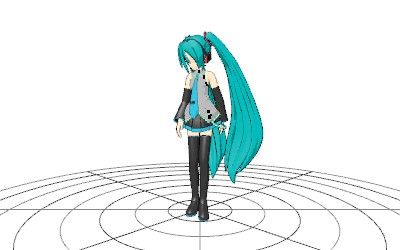
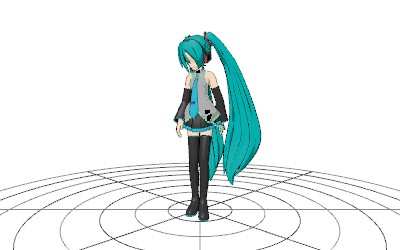
Set all Examples lights to intensity 1 after shading correction (#98)

Changed region(s): [[0.42, 0.168, 0.66, 0.756], [0.45, 0.224, 0.51, 0.308], [0.48, 0.784, 0.51, 0.812]]

diff --git a/tests/example-thumbnails.test.ts b/tests/example-thumbnails.test.ts
@@ -8,10 +8,10 @@ import { geneLightManifest } from '../scripts/gene-light-assets.ts';
 const ids = [ 'webgl_loader_mmd', 'webgl_loader_mmd_audio', 'webgl_loader_mmd_pose', 'webgl_loader_mmd_worker', 'webgl_loader_mmd_pmx_gene' ];
 const sha256 = ( bytes: Uint8Array ) => createHash( 'sha256' ).update( bytes ).digest( 'hex' );
 const previousImages: Record<string, string> = {
[9 lines of base64/hex data omitted]
 };
 
@@ -66,7 +66,7 @@ function jpegDimensions( bytes: Buffer ) {
 
 }
 
-test( 'four brighter Miku previews and unchanged Gene preview have valid dimensions, hashes and per-mode provenance', async () => {
+test( 'four 1/1 Miku previews and unchanged Gene preview have valid dimensions, hashes and per-mode provenance', async () => {
 
 	const gallery = await readFile( new URL( '../examples/index.html', import.meta.url ), 'utf8' );
 	const scene = await readFile( new URL( '../examples/scene.ts', import.meta.url ) );
@@ -85,13 +85,13 @@ test( 'four brighter Miku previews and unchanged Gene preview have valid dimensi
 
 		const gene = entry.page.endsWith( '_pmx_gene' );
 		assert.equal( entry.mode, gene ? 'gene' : entry.page.endsWith( '_audio' ) ? 'audio' : entry.page.endsWith( '_pose' ) ? 'pose' : 'animation' );
-		assert.deepEqual( entry.lighting, gene ? { ambient: 1, directional: 1 } : { ambient: 2, directional: 3 } );
+		assert.deepEqual( entry.lighting, { ambient: 1, directional: 1 } );
 		assert.equal( entry.retained, gene );
 		assert.ok( ! Number.isNaN( Date.parse( entry.capturedAt ) ) );
 		assert.match( entry.userAgent, /HeadlessChrome/ );
 		if ( gene ) {
 
-			assert.equal( entry.sha256, previousImages[ entry.page ], 'Issue #66 must preserve the exact Gene JPEG' );
+			assert.equal( entry.sha256, previousImages[ entry.page ], 'Preserve the original 1/1 Gene JPEG' );
[1 lines of base64/hex data omitted]
 			assert.equal( entry.capturedAt, '2026-10-14T09:29:07.294Z' );
 			assert.equal( entry.checks.defaultLights, true, 'Original Gene capture used native defaults' );
@@ -100,7 +100,7 @@ test( 'four brighter Miku previews and unchanged Gene preview have valid dimensi
 
 			assert.equal( entry.sceneSha256, manifest.sceneSha256 );
 			assert.equal( entry.capturedAt, manifest.capturedAt );
-			assert.equal( entry.previousSha256, previousImages[ entry.page ], 'Record the replaced 1/1 image' );
+			assert.equal( entry.previousSha256, previousImages[ entry.page ], 'Record the replaced Issue #66 2/3 image' );
 			assert.notEqual( entry.sha256, entry.previousSha256, 'Must refresh each Miku capture' );
 
 		}
@@ -121,8 +121,8 @@ test( 'four brighter Miku previews and unchanged Gene preview have valid dimensi
 
 	}
 	assert.equal( new Set( manifest.entries.map( ( entry: { sha256: string } ) => entry.sha256 ) ).size, ids.length, 'Worker must have its own distinct capture' );
-	// Browser checks exercise all modes; ensure Gene still uses native defaults.
-	assert.match( scene.toString(), /new AmbientLight\( 0xffffff, mode === 'gene' \? undefined : 2 \)/ );
-	assert.match( scene.toString(), /new DirectionalLight\( 0xffffff, mode === 'gene' \? undefined : 3 \)/ );
+	// Browser checks exercise all modes; require explicit shared 1/1 lighting.
+	assert.match( scene.toString(), /new AmbientLight\( 0xffffff, 1 \)/ );
+	assert.match( scene.toString(), /new DirectionalLight\( 0xffffff, 1 \)/ );
 
 } );

diff --git a/scripts/capture-example-thumbnails.ts b/scripts/capture-example-thumbnails.ts
@@ -10,7 +10,7 @@ import { createExamplesServer } from './serve-examples.ts';
 import { removeBrowserDirectory, runBrowser } from '../tests/browser/browser.ts';
 
 const ids = [ 'webgl_loader_mmd', 'webgl_loader_mmd_audio', 'webgl_loader_mmd_pose', 'webgl_loader_mmd_worker', 'webgl_loader_mmd_pmx_gene' ];
-// Issue #66 preserves the Issue #63 Gene preview byte for byte, on every run.
+// Gene already used 1/1 lighting; retain its Issue #63 preview provenance.
[1 lines of base64/hex data omitted]
 const sha256 = ( bytes: Uint8Array ) => createHash( 'sha256' ).update( bytes ).digest( 'hex' );
 interface Capture {
@@ -33,8 +33,8 @@ for ( const file of geneLightManifest.files ) verifyGeneLightFile( file, await r
 // Reject a stale build before capturing any images.
 const sceneSource = await readFile( new URL( '../examples/scene.ts', import.meta.url ) );
 const compiledScene = await readFile( new URL( '../dist/example-modules/scene.js', import.meta.url ), 'utf8' );
-assert.ok( /const ambient = new AmbientLight\(\s*0xffffff, mode === ['"]gene['"] \? undefined : 2\s*\)/.test( compiledScene ), 'Build the current per-mode ambient lighting before capture' );
-assert.ok( /const light = new DirectionalLight\(\s*0xffffff, mode === ['"]gene['"] \? undefined : 3\s*\)/.test( compiledScene ), 'Build the current per-mode directional lighting before capture' );
+assert.ok( /const ambient = new AmbientLight\(\s*0xffffff, 1\s*\)/.test( compiledScene ), 'Build the current 1/1 ambient lighting before capture' );
+assert.ok( /const light = new DirectionalLight\(\s*0xffffff, 1\s*\)/.test( compiledScene ), 'Build the current 1/1 directional lighting before capture' );
 
 const harness = `<!doctype html><meta charset="utf-8"><pre id="result">pending</pre><script type="module">
 const captures = [], errors = [];
@@ -76,7 +76,7 @@ try {
   const checks={
    ready:doc.body.dataset.state==='ready',
    realModel:id.endsWith('_pmx_gene')?mesh.skeleton.bones.length===224:mesh.skeleton.bones.length>100,
-   lightIntensities:lights.length===2 && ambient.intensity===(mode==='gene'?1:2) && directional.intensity===(mode==='gene'?1:3),
+   lightIntensities:lights.length===2 && ambient.intensity===1 && directional.intensity===1,
    lightColors:ambient.color.getHex()===0xffffff && directional.color.getHex()===0xffffff,
    lightDirection:directional.position.toArray().join(',')==='-1,2,1' && directional.target.position.toArray().join(',')==='0,0,0',
    camera:id.endsWith('_audio') || (camera.position.toArray().every((v,i)=>Math.abs(v-[0,12,35][i])<1e-9) && camera.aspect===400/250),
@@ -143,13 +143,14 @@ try {
 		const previous = await readFile( target ).catch( () => null );
 		const bytes = Buffer.from( capture.preview.split( ',' )[ 1 ], 'base64' );
 		await writeFile( target, bytes );
-		// Retain the original replaced image hash across recaptures, which may
-		// legitimately encode exactly the same pixels on the same browser.
-		const original = existingManifest?.entries.find( ( entry: { page: string } ) => entry.page === capture.page );
-		const previousSha256 = existingManifest.version === 2 ? original.previousSha256 : previous ? sha256( previous ) : null;
+		// Record the replaced lighting configuration once; repeated captures at
+		// 1/1 may legitimately encode exactly the same pixels on the same browser.
+		const original = existingManifest.entries.find( ( entry: { page: string } ) => entry.page === capture.page );
+		const previousSha256 = original?.lighting?.ambient === 1 && original?.lighting?.directional === 1
+			? original.previousSha256 : previous ? sha256( previous ) : null;
 		entries.push( { page: capture.page, path, sha256: sha256( bytes ), previousSha256, ...capture.state,
 			capturedAt, sceneSha256: sha256( sceneSource ), userAgent: result.userAgent, retained: false, checks: capture.checks } );
-		console.log( `Captured ${capture.page} (real assets, ambient 2 / directional 3, ${bytes.length} bytes)` );
+		console.log( `Captured ${capture.page} (real assets, ambient 1 / directional 1, ${bytes.length} bytes)` );
 
 	}
 	await writeFile( manifestURL, JSON.stringify( {

diff --git a/examples/scene.ts b/examples/scene.ts
@@ -61,10 +61,9 @@ export async function initExample( mode: 'animation' | 'audio' | 'pose' | 'gene'
 		gui.domElement.setAttribute( 'aria-busy', 'true' );
 		const scene = new Scene();
 		scene.background = new Color( 0xffffff );
-		// Gene keeps native defaults; the Miku examples use brighter art direction.
-		const ambient = new AmbientLight( 0xffffff, mode === 'gene' ? undefined : 2 );
+		const ambient = new AmbientLight( 0xffffff, 1 );
 		scene.add( new PolarGridHelper( 30, 8 ), ambient );
-		const light = new DirectionalLight( 0xffffff, mode === 'gene' ? undefined : 3 );
+		const light = new DirectionalLight( 0xffffff, 1 );
 		light.position.set( - 1, 2, 1 );
 		scene.add( light );
 		const camera = new PerspectiveCamera( 45, innerWidth / innerHeight, 0.1, 2000 );

diff --git a/tests/browser/examples.test.ts b/tests/browser/examples.test.ts
@@ -302,7 +302,7 @@ try {
 		const lights = scene.children.filter( child => child.isLight );
 		const ambient = lights.find( child => child.isAmbientLight );
 		const directional = lights.find( child => child.isDirectionalLight );
-		checks.lightIntensities = lights.length === 2 && ambient.intensity === 2 && directional.intensity === 3;
+		checks.lightIntensities = lights.length === 2 && ambient.intensity === 1 && directional.intensity === 1;
 		checks.lightColors = ambient.color.getHex() === 0xffffff && directional.color.getHex() === 0xffffff;
 		checks.lightDirection = directional.position.toArray().join( ',' ) === '-1,2,1' && directional.target.position.toArray().join( ',' ) === '0,0,0';
 		let guiRect = gui.getBoundingClientRect();

diff --git a/examples/README.md b/examples/README.md
@@ -33,8 +33,8 @@ light/dark colors from the Issue #14 references: Three.js `examples/index.html`
 (blob `eab4263a7a7570bb433cab3048d5735d4782f673`). It is separate from the demo
 stylesheets. The four Miku previews in `screenshots/` replace the original
 official r171 screenshots with local captures of this checkout's real
-model/animation, audio/camera, pose, and Worker scenes with ambient intensity 2
-and directional intensity 3, restored for Issue #66.
+model/animation, audio/camera, pose, and Worker scenes with ambient intensity 1
+and directional intensity 1, updated for Issue #98.
 Their model, texture, motion, camera, and pose sources are pinned to the same
 Three.js commit as the assets below. They depict the credited Miku character
 and retain the applicable character/asset terms; they are not MIT licensed
@@ -151,23 +151,24 @@ audio playback also needs browser audio support.
 ### Gallery thumbnail capture
 
 All five gallery cards use local **400×250 JPEG** captures from their real
-example pages with white `AmbientLight` and `DirectionalLight`. Issue #66
-restores the brighter lighting for the four Miku examples and recaptures their
-previews, including a distinct Worker image. Gene retains native Three.js
-defaults and its exact Issue #63 JPEG bytes.
+example pages with white `AmbientLight` and `DirectionalLight`, both explicitly
+set to intensity **1** in every mode. Issue #98 recaptures the four Miku
+previews, including a distinct Worker image, after the corrected MMD direct
+diffuse lighting in #96/#97. Gene already used 1/1 lighting and retains its
+exact Issue #63 JPEG bytes and historical capture provenance.
 
 | Page / mode | Ambient intensity | Directional intensity | Preview |
 | --- | --- | --- | --- |
-| Model and animation / `animation` | 2 | 3 | Recaptured |
-| Worker Physics / `animation` | 2 | 3 | Recaptured separately |
-| Audio and camera / `audio` | 2 | 3 | Recaptured |
-| Poses / `pose` | 2 | 3 | Recaptured |
-| PMX — Gene (Light) / `gene` | 1 (native default) | 1 (native default) | Retained unchanged |
+| Model and animation / `animation` | 1 | 1 | Recaptured |
+| Worker Physics / `animation` | 1 | 1 | Recaptured separately |
+| Audio and camera / `audio` | 1 | 1 | Recaptured |
+| Poses / `pose` | 1 | 1 | Recaptured |
+| PMX — Gene (Light) / `gene` | 1 | 1 | Retained unchanged |
 
 Camera positions, lighting direction, materials, outlines, and renderer tone
-mapping remain those of the examples. The mixed intensities are intentional
-per-example art direction. This is a preview refresh, not a claim
-of exact MikuMikuDance parity or a separately confirmed visual outcome.
+mapping remain those of the examples. The corrected MMD material/shading
+implementation is unchanged. These captures do not establish visual
+equivalence to MikuMikuDance.
 
 From the repository root with dependencies and Chrome installed:
 
@@ -200,9 +201,9 @@ date, browser, asset source commits, current scene source hash, per-mode light
 intensities, frame/pose state, checks, and image SHA-256s. Each entry records its
 own capture date, browser and scene hash: Gene retains the original Issue #63
 capture provenance and checks, with separate current runtime verification
-checks. Miku entries record the replaced Issue #63 image hashes, retained on
-subsequent recapture. The method reproduces the scene state; JPEG bytes can
-vary with browser/platform versions. Automated tests verify all five gallery
+checks. Miku entries record the replaced Issue #66 2/3 image hashes, retained
+on subsequent recapture at 1/1. The method reproduces the scene state; JPEG
+bytes can vary with browser/platform versions. Automated tests verify all five gallery
 references, image hashes, current scene
 provenance, and decoded 400×250 dimensions in the browser. The static build
 copies the images and manifest; the npm package excludes example assets.
@@ -218,8 +219,8 @@ is a derivative presentation of the unchanged CC BY 4.0 Gene Light model and
 textures, with the credit and separate usage conditions above. Neither image
 set asserts author endorsement or grants additional character/asset rights.
 
-Issue #66's required post-merge workflow and public gallery verification is
-**PENDING**; see [the validation record](https://github.com/takahirox/three-mmd-loader/blob/main/docs/default-lighting-validation.md).
+Issue #98's required post-merge Tests/Pages workflow and deployed-scene verification is
+**PENDING**; see [the validation record](https://github.com/takahirox/three-mmd-loader/blob/main/docs/examples-lighting-validation.md).
 It is not a pre-merge gate.
 
 ### Miku asset sources
@@ -277,8 +278,9 @@ WASM runtime; a main-thread initialization failure displays an error and stops
 setup. There is no asm.js fallback in the Examples.
 
 Changing the default backend does not establish improved stability,
-visual fidelity or universal speed. Existing gallery JPEGs retain
-their original asm.js capture provenance and do not demonstrate WASM parity.
+visual fidelity or universal speed. The four Miku gallery JPEGs are captured
+with the default WASM runtime. Gene retains its original asm.js capture provenance; neither set establishes
+WASM/asm.js visual or motion parity.
 See [consumer initialization and CSP](https://github.com/takahirox/three-mmd-loader/blob/main/README.md#optional-worker-physics) and
 [current validation evidence](https://github.com/takahirox/three-mmd-loader/blob/main/docs/bullet-default.md).
 

diff --git a/docs/examples-lighting-validation.md b/docs/examples-lighting-validation.md
@@ -1,0 +1,64 @@
+# Examples lighting validation — Issue #98
+
+All five demo pages now explicitly construct a white `AmbientLight` and white
+`DirectionalLight` at intensity **1** in `examples/scene.ts`: Model and animation,
+Worker Physics, Audio and camera, Poses, and PMX — Gene (Light). The Worker page
+uses the same scene setup. Only the two intensity arguments change at runtime;
+light positions/targets, cameras, renderer configuration, materials, toon/shadow
+rendering, animation, and physics remain unchanged. The corrected MMD shading
+from #96/#97 is preserved.
+
+The browser examples test checks both intensities for every Miku page, including
+Worker; the Gene browser test already checks both at 1. Existing checks also
+verify white colors, direction/target, rendering, controls, and scene startup.
+These checks run against source pages and the built site under the Pages prefix.
+
+The four Miku gallery JPEGs are recaptured from the real pinned assets at 1/1,
+including the actual Worker backend. Their manifest records current scene and
+image hashes, capture conditions, and the replaced Issue #66 2/3 image hashes.
+Repeated captures at 1/1 preserve those replaced hashes. Gene's existing 1/1
+JPEG remains byte for byte unchanged, with its original capture date/source
+hash and separate current runtime verification checks. Historical validation
+for the mixed lighting is retained in [the Issue #66 record](default-lighting-validation.md).
+Asset rights and credits remain in [the examples README](../examples/README.md#gallery-thumbnail-capture)
+and [third-party notices](../THIRD_PARTY_NOTICES.md).
+
+## Pre-merge validation
+
+Validation in the assigned worktree on 2026-10-21 with Node.js 24.12.0 and
+Google Chrome 155.0.8059.85 on macOS:
+
+| Check | Result |
+| --- | --- |
+| `npm ci` | PASS; 18 packages installed, audit found 0 vulnerabilities |
+| `npm run examples:capture` | PASS; four real Miku captures at 1/1, Gene runtime verified and original JPEG/provenance preserved |
+| `npm run typecheck` | PASS; package, examples, tools, and TypeScript source policy |
+| `npm test` | PASS; 1,195 tests, 0 failures, 0 skipped |
+| `npm run build` | PASS; run by capture, typecheck, test, and Examples build hooks |
+| `npm run build:examples` | PASS; pinned real assets verified |
+| `npm run test:examples` | PASS; 3 tests, 0 failures, 0 skipped; all four Miku pages (generated fixtures) and real Gene with default/legacy Bullet |
+| `MMD_EXAMPLE_SITE=dist/examples npm run test:examples` | PASS; 3 tests, 0 failures, 0 skipped; real pinned assets served only from the built artifact under `/three-mmd-loader/`, including Worker and Gene default/legacy Bullet |
+| Built artifact audit | PASS; all 614 deployment file hashes, all five preview copies, capture manifest, current scene provenance, and compiled 1/1 lights |
+| `git diff --check` | PASS |
+
+No model-versus-MMD visual comparison or subjective visual approval is a
+pre-merge gate; no visual equivalence is claimed.
+
+## Required post-merge verification: PENDING
+
+This node does not push, merge, dispatch workflows, or publish. The following
+checks require the eventual exact merge commit and remain **PENDING until
+performed**:
+
+- **Tests workflow: PENDING.** Find the latest merge-triggered attempt for the
+  exact merge commit; record the commit, run URL, attempt, and conclusion.
+- **GitHub Pages workflow: PENDING.** Find the latest merge-triggered attempt
+  for that same commit; record its run URL, attempt, and conclusion, including
+  publication and public verification results.
+- **Deployed commit and assets: PENDING.** Verify the public deployment manifest
+  at <https://takahirox.github.io/three-mmd-loader/> identifies that merge commit,
+  and validate the public page/assets and preview hashes against its manifest.
+- **All five deployed scenes: PENDING.** Check basic scene startup and inspect
+  ambient and directional light intensities, both 1, on Model and animation,
+  Worker Physics, Audio and camera, Poses, and PMX — Gene (Light). Record the
+  page URLs and outcomes without claiming visual equivalence to MMD.

diff --git a/THIRD_PARTY_NOTICES.md b/THIRD_PARTY_NOTICES.md
@@ -59,8 +59,8 @@ The four Miku JPEG previews in `examples/screenshots/` are local renderings
 of the real example scenes, replacing the three original previews copied from
 [`examples/screenshots/` at Three.js r171](https://github.com/mrdoob/three.js/tree/2898f5b1ba10b1e94174c0a62d072f5f7b80442c/examples/screenshots)
 and adding a separate Worker Physics capture for Issue #63. The replacement
-images were recaptured for Issue #66 at ambient intensity 2 and directional
-intensity 3, and derive from unchanged Miku/MMD assets at that pinned commit.
+images were recaptured for Issue #98 at ambient intensity 1 and directional
+intensity 1, and derive from unchanged Miku/MMD assets at that pinned commit.
 Character © Crypton Future Media;
 model/texture MMD / Yu Higuchi; WAVEFILE motion hino; camera doramata,
 customized by Takahiro; Pose 1 KEITEL. The audio scene uses LamazeP's music
@@ -125,8 +125,8 @@ of the generated animation, replacing the earlier custom-framed preview.
 The changed presentation is a CC BY 4.0 derivative, separately from the MIT
 code license; the model and textures remain unchanged. Capture provenance is
 in `examples/screenshots/manifest.json` and the linked examples README.
-Issue #66 retains this Gene preview byte for byte and keeps its native 1/1
-lighting; only the four Miku previews are recaptured with brighter lighting.
+Issue #98 retains this Gene preview byte for byte with its original 1/1
+lighting provenance; the four Miku previews are recaptured at 1/1 lighting.
 
 CG-CA Gene (c) 2023 by Nagoya Institute of Technology, Moonshot R&D Goal 1 Avatar Symbiotic Society
 

diff --git a/docs/bullet-experiment.md b/docs/bullet-experiment.md
@@ -90,7 +90,9 @@ also select the new default. There is no engine-selection UI.
 No physics parameters are changed. Default fixed step is still `1/60`,
 `maxStepNum=10`; gravity, STOP_ERP, damping, collision policy, poses,
 animation/IK and kinematic control remain in the existing implementation.
-The gallery's retained JPEGs predate the default switch.
+The retained Gene JPEG predates the default switch; Issue #98 recaptures the
+four Miku JPEGs with the default runtime at 1/1 lighting. See the
+[lighting validation record](examples-lighting-validation.md).
 
 The WebIDL surface covers the structural APIs in `src/ammo.ts`, native worlds,
 motion states, sphere/box/capsule shapes, additional damping construction fields,

diff --git a/examples/gene-light.md b/examples/gene-light.md
@@ -109,7 +109,9 @@ standard mobile GUI.
 400×250 preview of this exact permitted scene. It retains the model credit
 above and in the gallery's linked terms. Issue #63 refreshes it with native
 default light intensities, the existing scene camera, and active physics at two
-seconds of the generated animation. To regenerate all gallery previews:
+seconds of the generated animation. Issue #98 retains this 1/1 preview and
+its original capture provenance while explicitly setting both lights to 1 in
+all scenes. To recapture the four Miku previews and verify Gene at runtime:
 
 ```sh
 npm run examples:capture

diff --git a/docs/gene-light-lighting-validation.md b/docs/gene-light-lighting-validation.md
@@ -1,8 +1,8 @@
 # Gene Light scene lighting validation — Issue #61
 
-Historical validation for Issue #61. Issue #63 subsequently generalizes default
-intensity 1 to all modes and refreshes all previews; see
-[the current validation record](default-lighting-validation.md).
+Historical validation for Issue #61. Issue #98 explicitly sets intensity 1
+for both lights in all modes and refreshes the four Miku previews; see
+[the current validation record](examples-lighting-validation.md).
 
 Checked on 2026-10-14 before merge, using Node.js 24.12.0 and Google Chrome
 155.0.8059.79 on macOS.

diff --git a/docs/default-lighting-validation.md b/docs/default-lighting-validation.md
@@ -1,4 +1,8 @@
-# Mixed example lighting and gallery previews — Issue #66
+# Mixed example lighting and gallery previews — Issue #66 (historical)
+
+Superseded by [Issue #98 validation](examples-lighting-validation.md): all five
+scenes now explicitly use 1/1 lighting. The results and pending items below
+refer only to the earlier Issue #66 implementation.
 
 The shared scene restores ambient intensity 2 and directional intensity 3 for
 Model and animation, Worker Physics, Audio and camera, and Poses. Only
